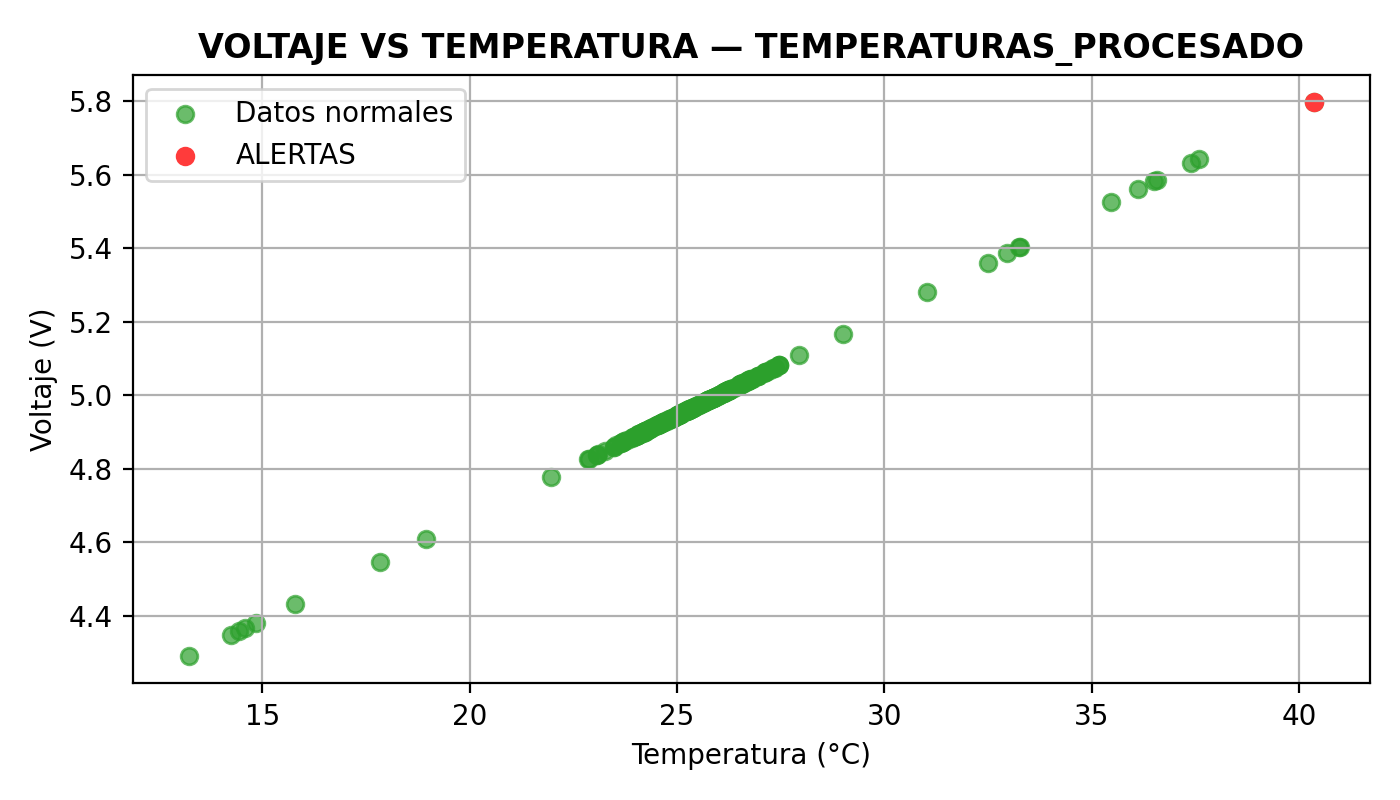
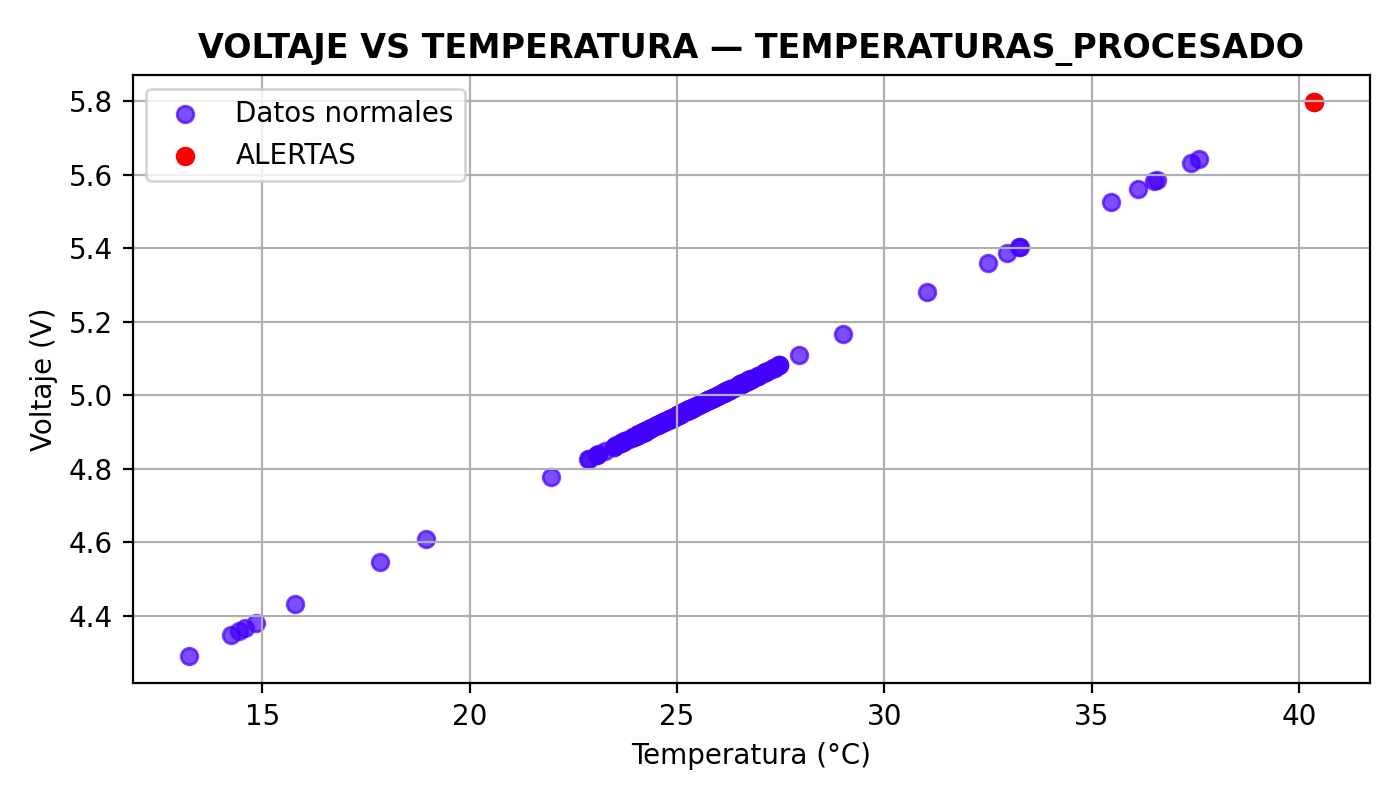
s8_practica

diff --git a/sesion8/s8_practica.py b/sesion8/s8_practica.py
@@ -98,8 +98,8 @@ alerta_v = [v for v, a in zip(Voltaje, Alertas) if a == "ALERTA"]
 alerta_T2 = [T for T, a in zip(Temp_C, Alertas) if a == "ALERTA"]
 
 plt.figure(figsize=(7, 4))
-plt.scatter(Temp_C, Voltaje, color="#2ca02c", alpha=0.7, label="Datos normales")
-plt.scatter(alerta_T2, alerta_v, color="#ff3b3b", label="ALERTAS")
+plt.scatter(Temp_C, Voltaje, color="#4400ff", alpha=0.7, label="Datos normales")
+plt.scatter(alerta_T2, alerta_v, color="#ff0000", label="ALERTAS")
 plt.title(f"VOLTAJE vs TEMPERATURA — {CSV_PATH.stem}".upper(), fontweight='bold')
 plt.xlabel("Temperatura (°C)")
 plt.ylabel("Voltaje (V)")
